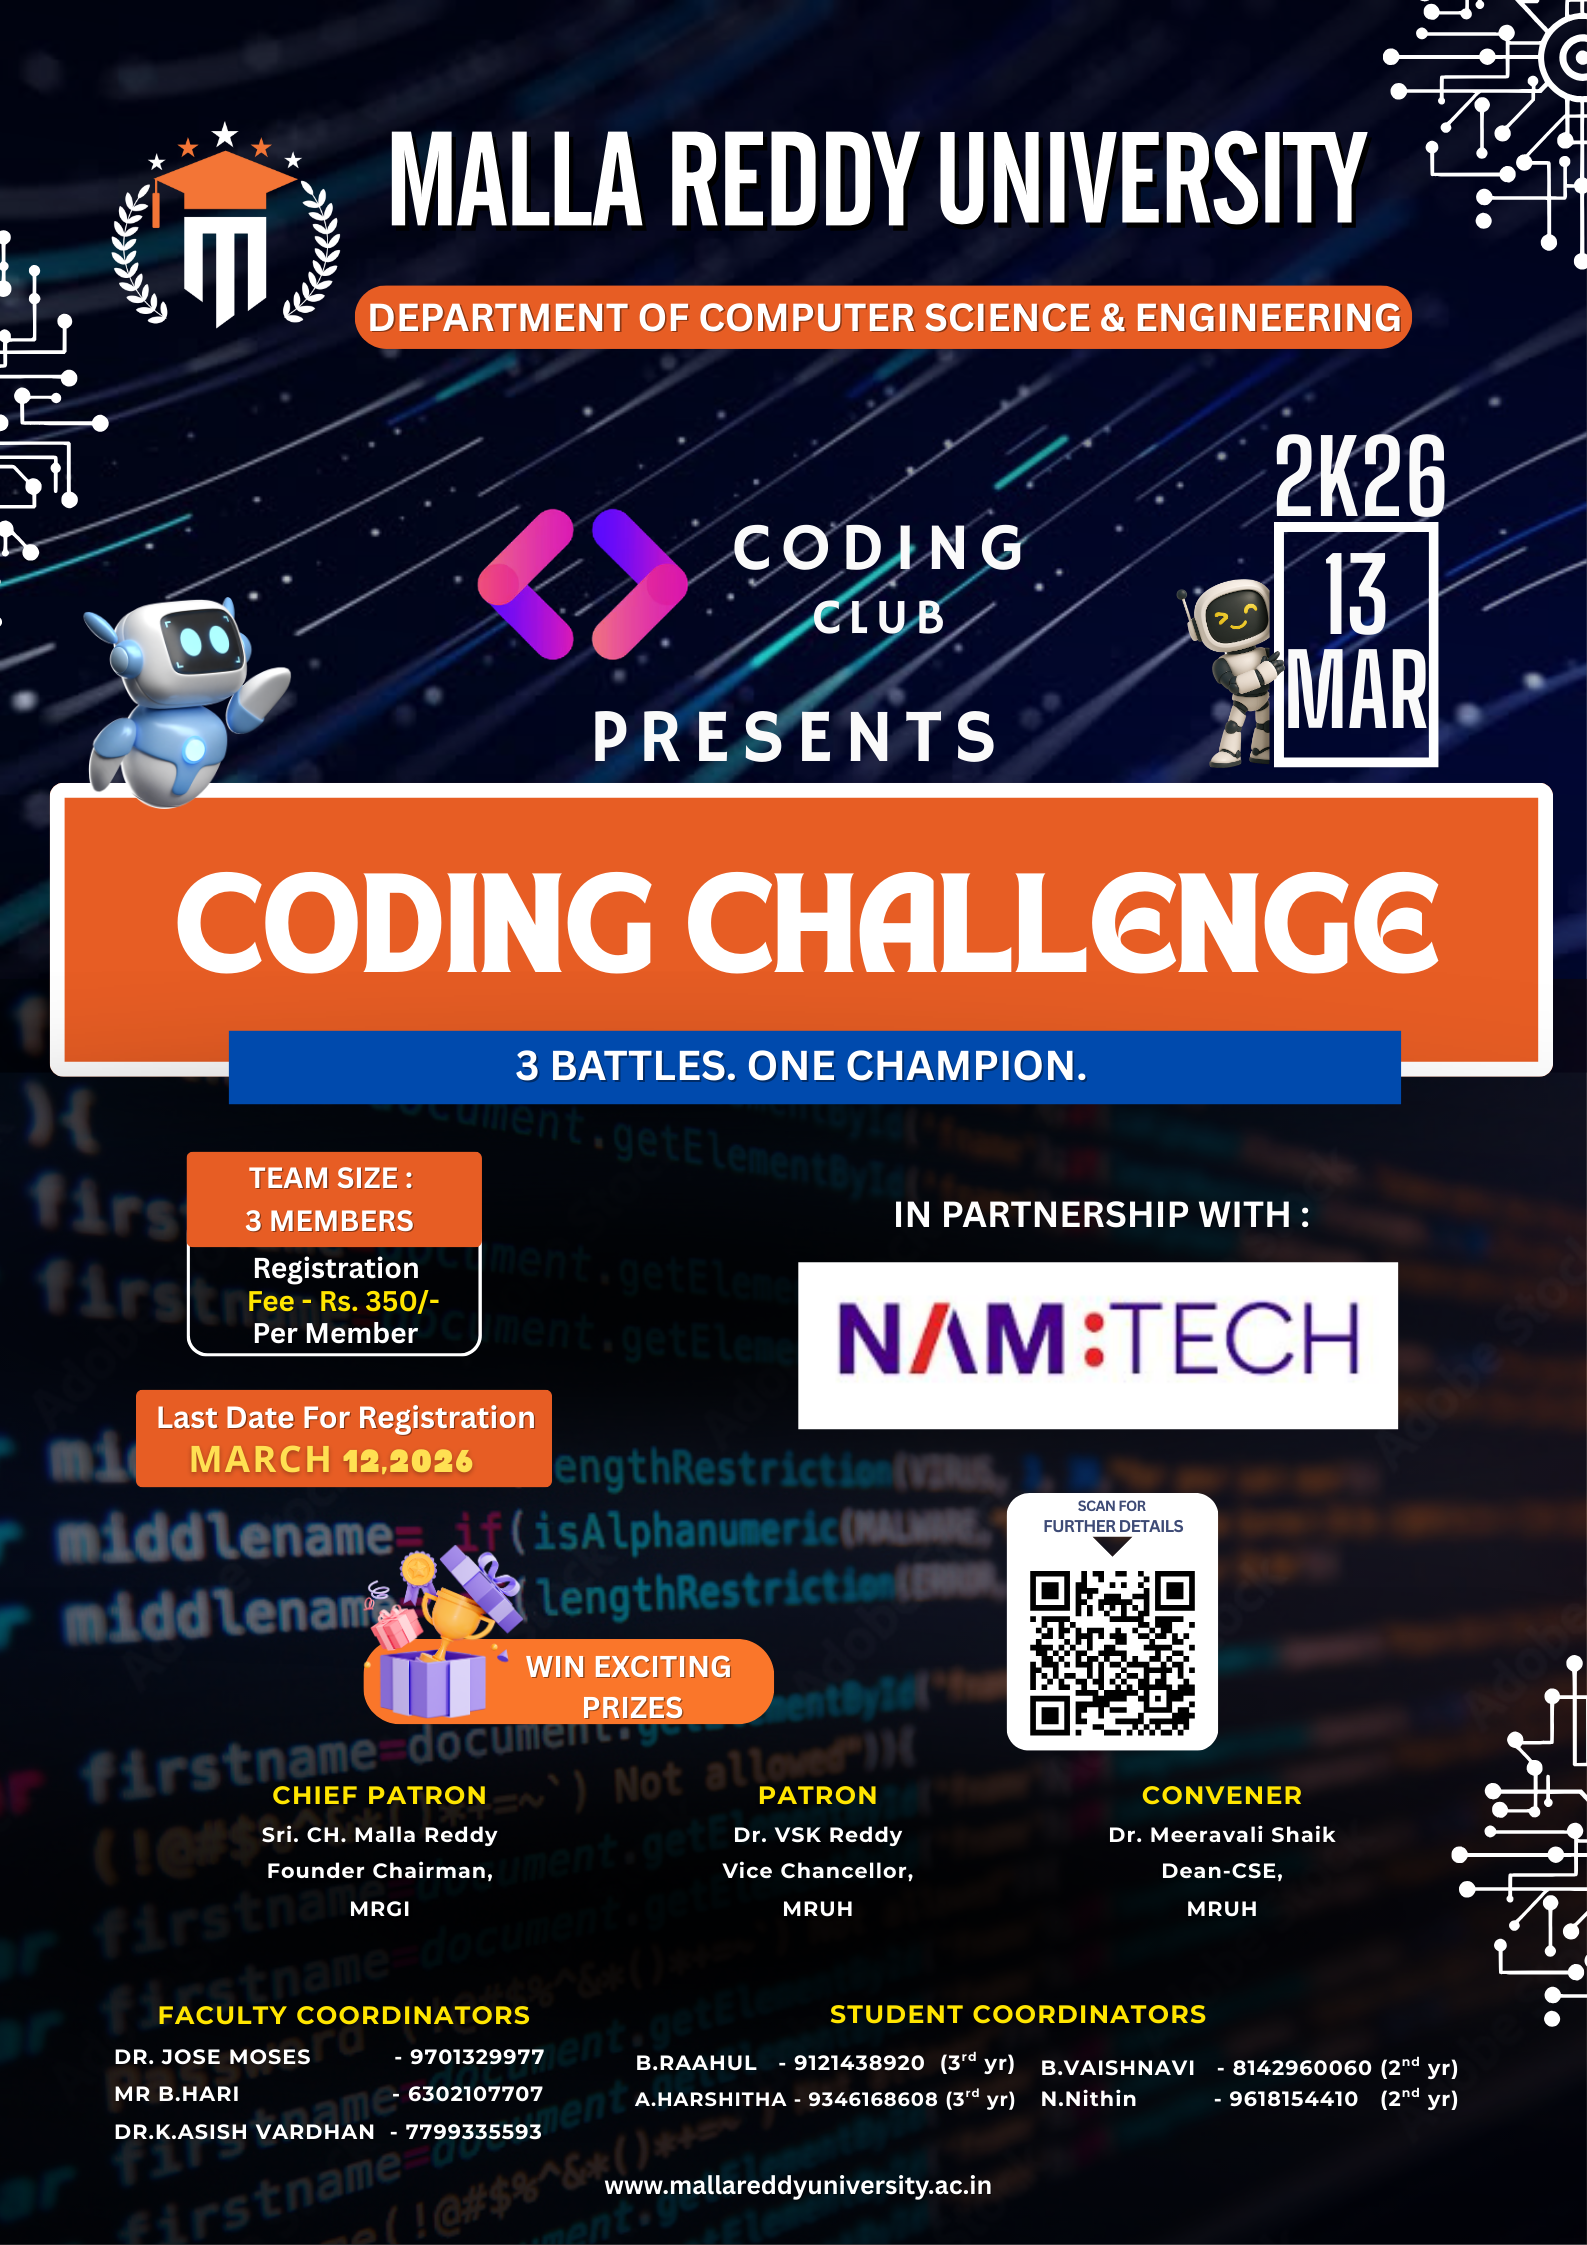
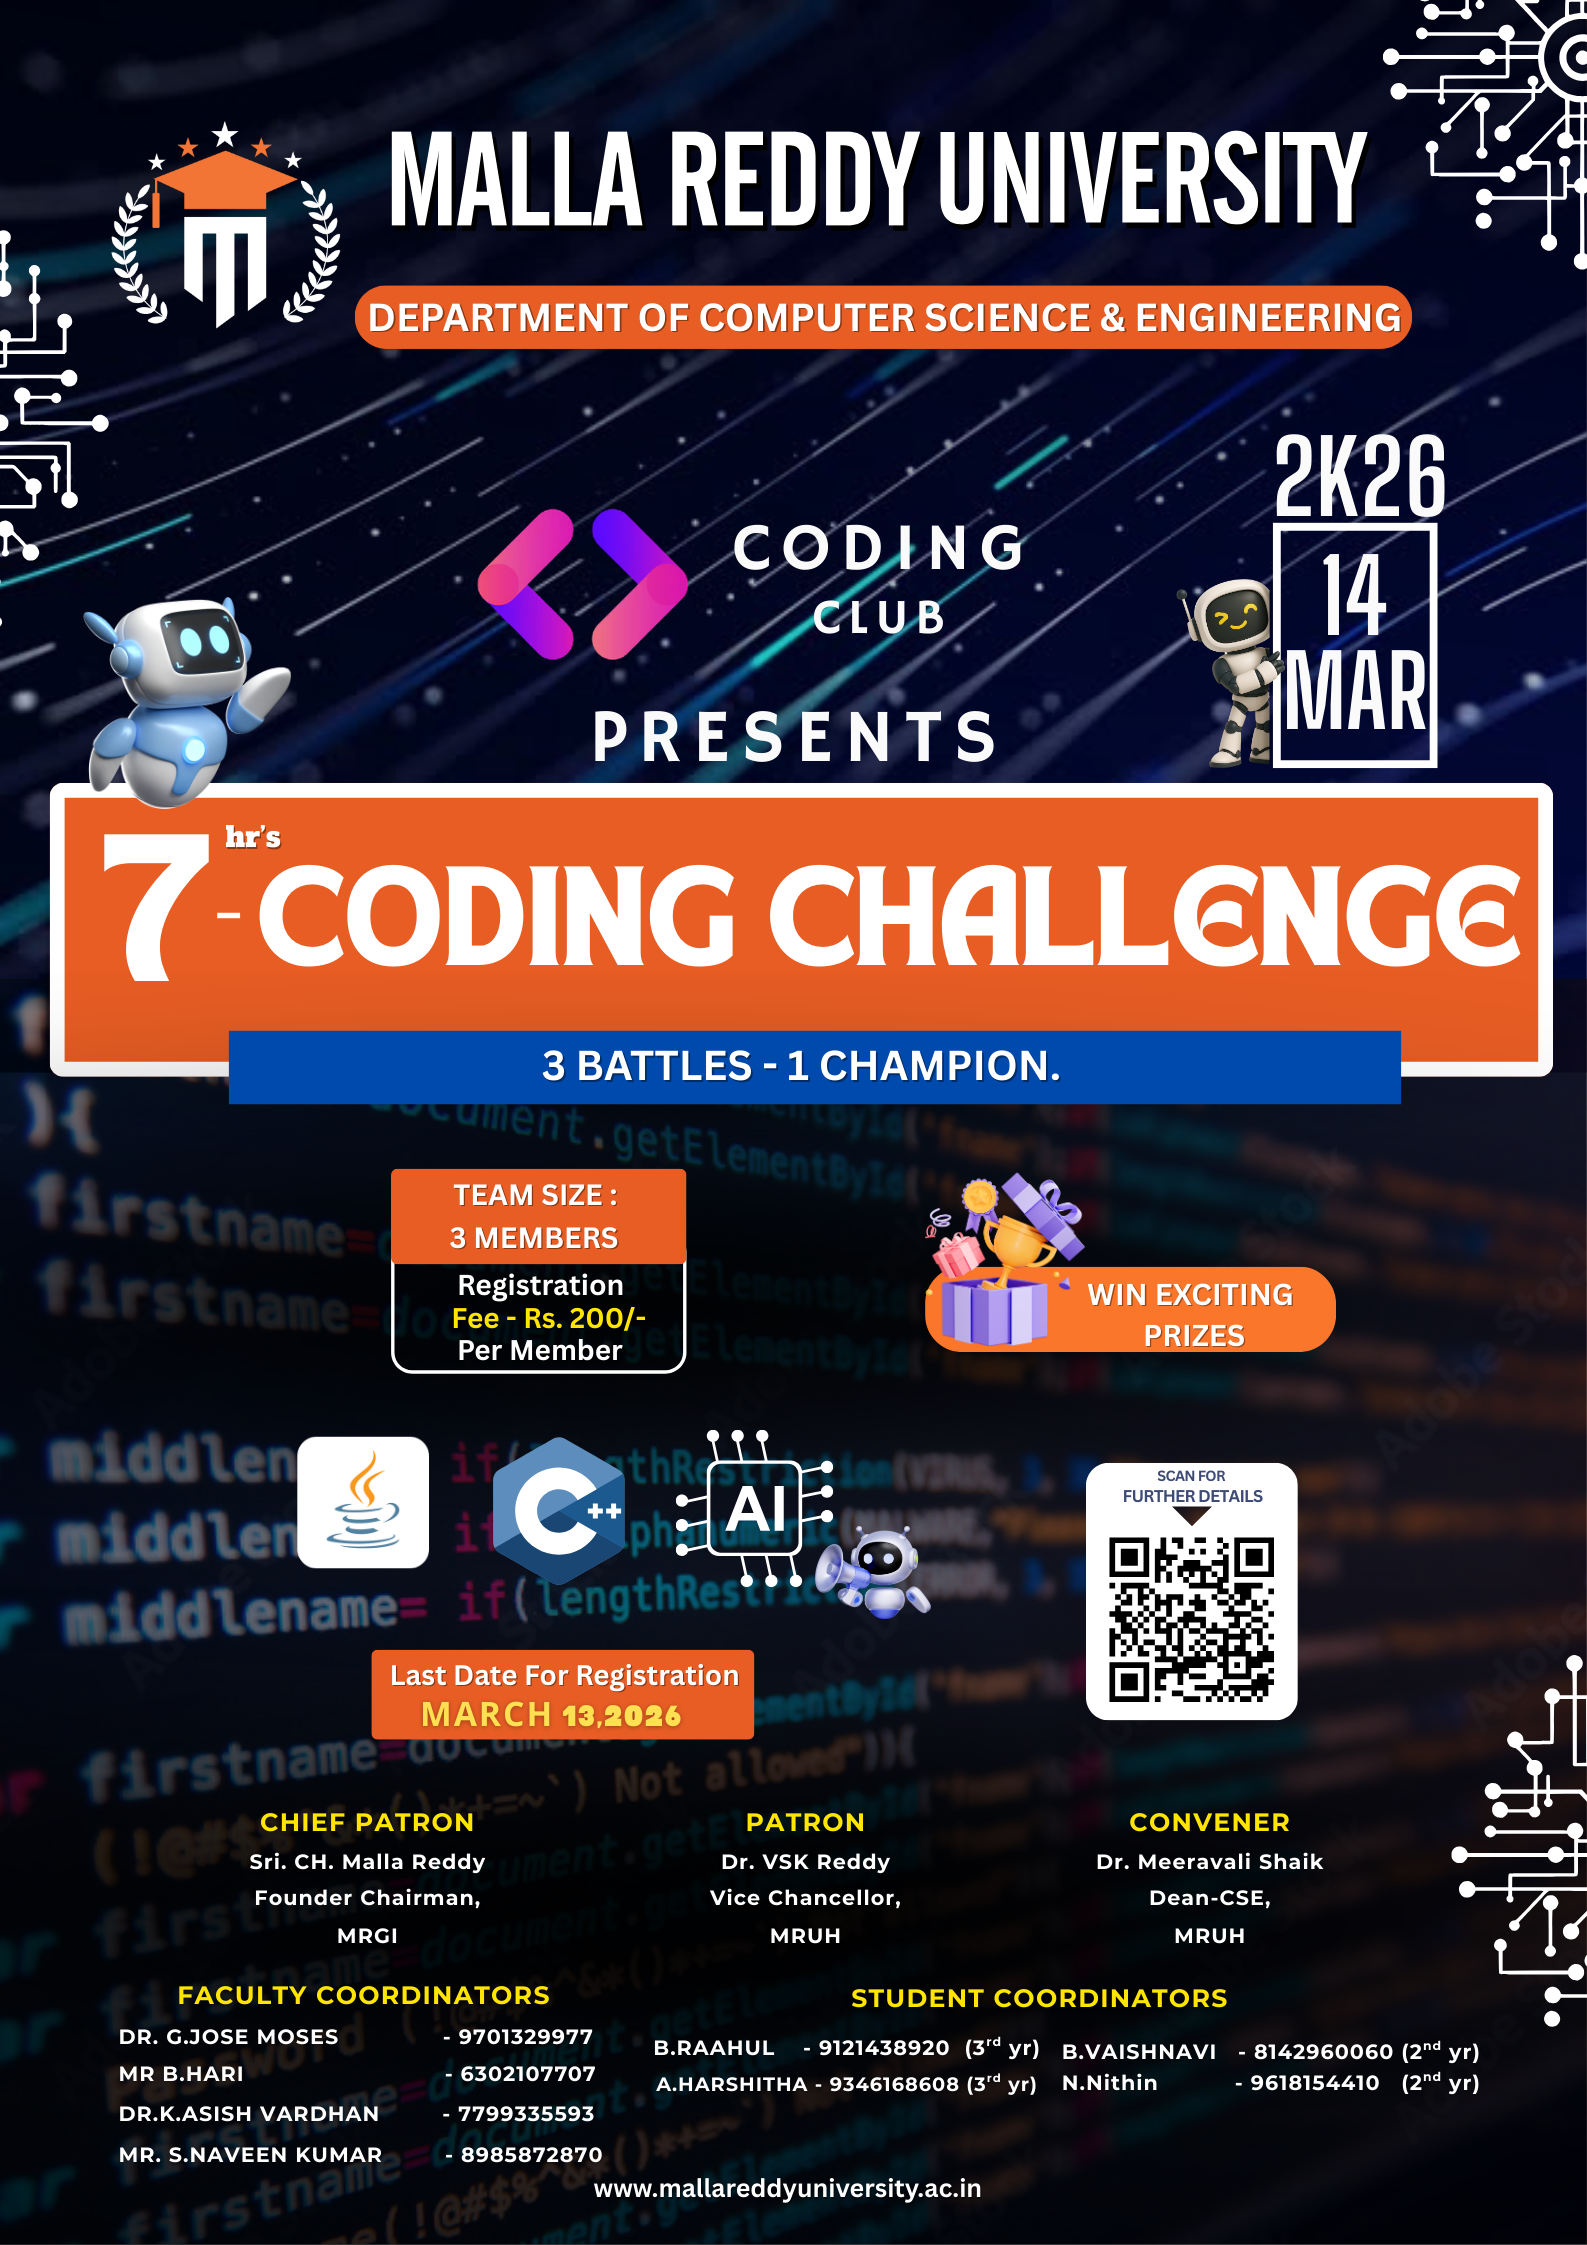
Update challenge poster and remove partnership

diff --git a/src/App.jsx b/src/App.jsx
@@ -2,7 +2,6 @@ import React, { useState, useEffect, useRef } from 'react';
 import { motion, AnimatePresence } from 'framer-motion';
 import logoImg from '../logo.png';
 import challengeImg from '../challenge.png';
-import namtechImg from '../namtech.png';
 import footerImg from '../footer.png';
 import {
     Github,
@@ -38,8 +37,6 @@ const EVENTS = [
         date: "March 13, 2026",
         description: "3 Battles. One Champion. Team Size: 3. Prizes: Win exciting rewards. Registration Fee: ₹350.",
         type: "Competition",
-        partnerText: "IN PARTNERSHIP WITH :",
-        partnerLogo: namtechImg,
         poster: challengeImg,
         highlights: [
             "3-months internship will be offered to the winners.",
